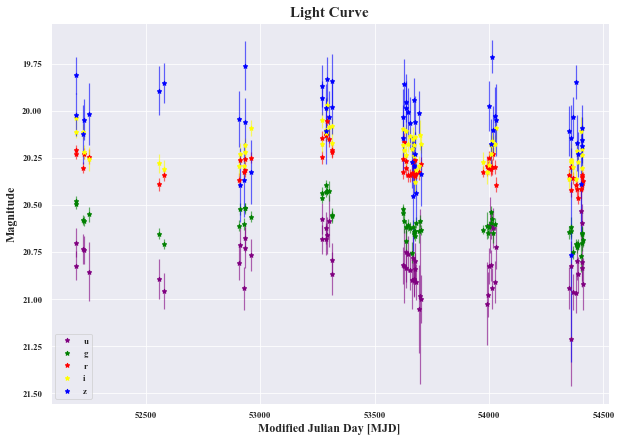
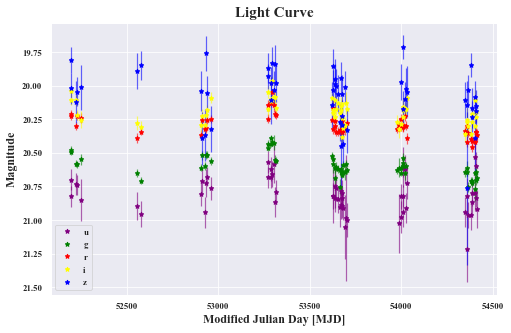
plot changes

diff --git a/README.md b/README.md
@@ -56,17 +56,17 @@ To match the Stripe 82 and the DR7 catalog data to get most relevant information
 `src/notebooks/morsecode.ipynb`
 # Plots
 
-<img src ="./plots/skymap.png" alt="plot" title="skymap" width="450" height="350" />
+<img src ="./plots/skymap.png" alt="plot" title="skymap" width="400" height="300" />
 
-<img src ="./plots/mass_hist.png" alt="plot" title="mass_hist" width="450" height="350" />
+<img src ="./plots/mass_hist.png" alt="plot" title="mass histogram" width="400" height="300" />
 
-<img src ="./plots/mass_scatter.png" alt="plot" title="mass_scatter" width="450" height="350" />
+<img src ="./plots/mass_scatter.png" alt="plot" title="mass scatter" width="400" height="300" />
 
-<img src ="./plots/light_curve.png" alt="plot" title="light_curve" width="450" height="350" />
+<img src ="./plots/light_curve.png" alt="plot" title="light curve" width="400" height="300" />
 
-<img src ="./plots/unphysical_LC.png" alt="plot" title="unphysical_LC" width="450" height="350" />
+<img src ="./plots/unphysical_LC.png" alt="plot" title="unphysical LC" width="400" height="300" />
 
-<img src ="./plots/simulated_LC.png" alt="plot" title="simulated light curve" width="450" height="350" />
+<img src ="./plots/simulated_LC.png" alt="plot" title="simulated light curve" width="400" height="300" />
 
 
 <!-- ![Example of "morse code" image that neural network intakes. NN images contain all information as previous light curves but in an .npy format that the neural network can understand.](./plots/) -->
